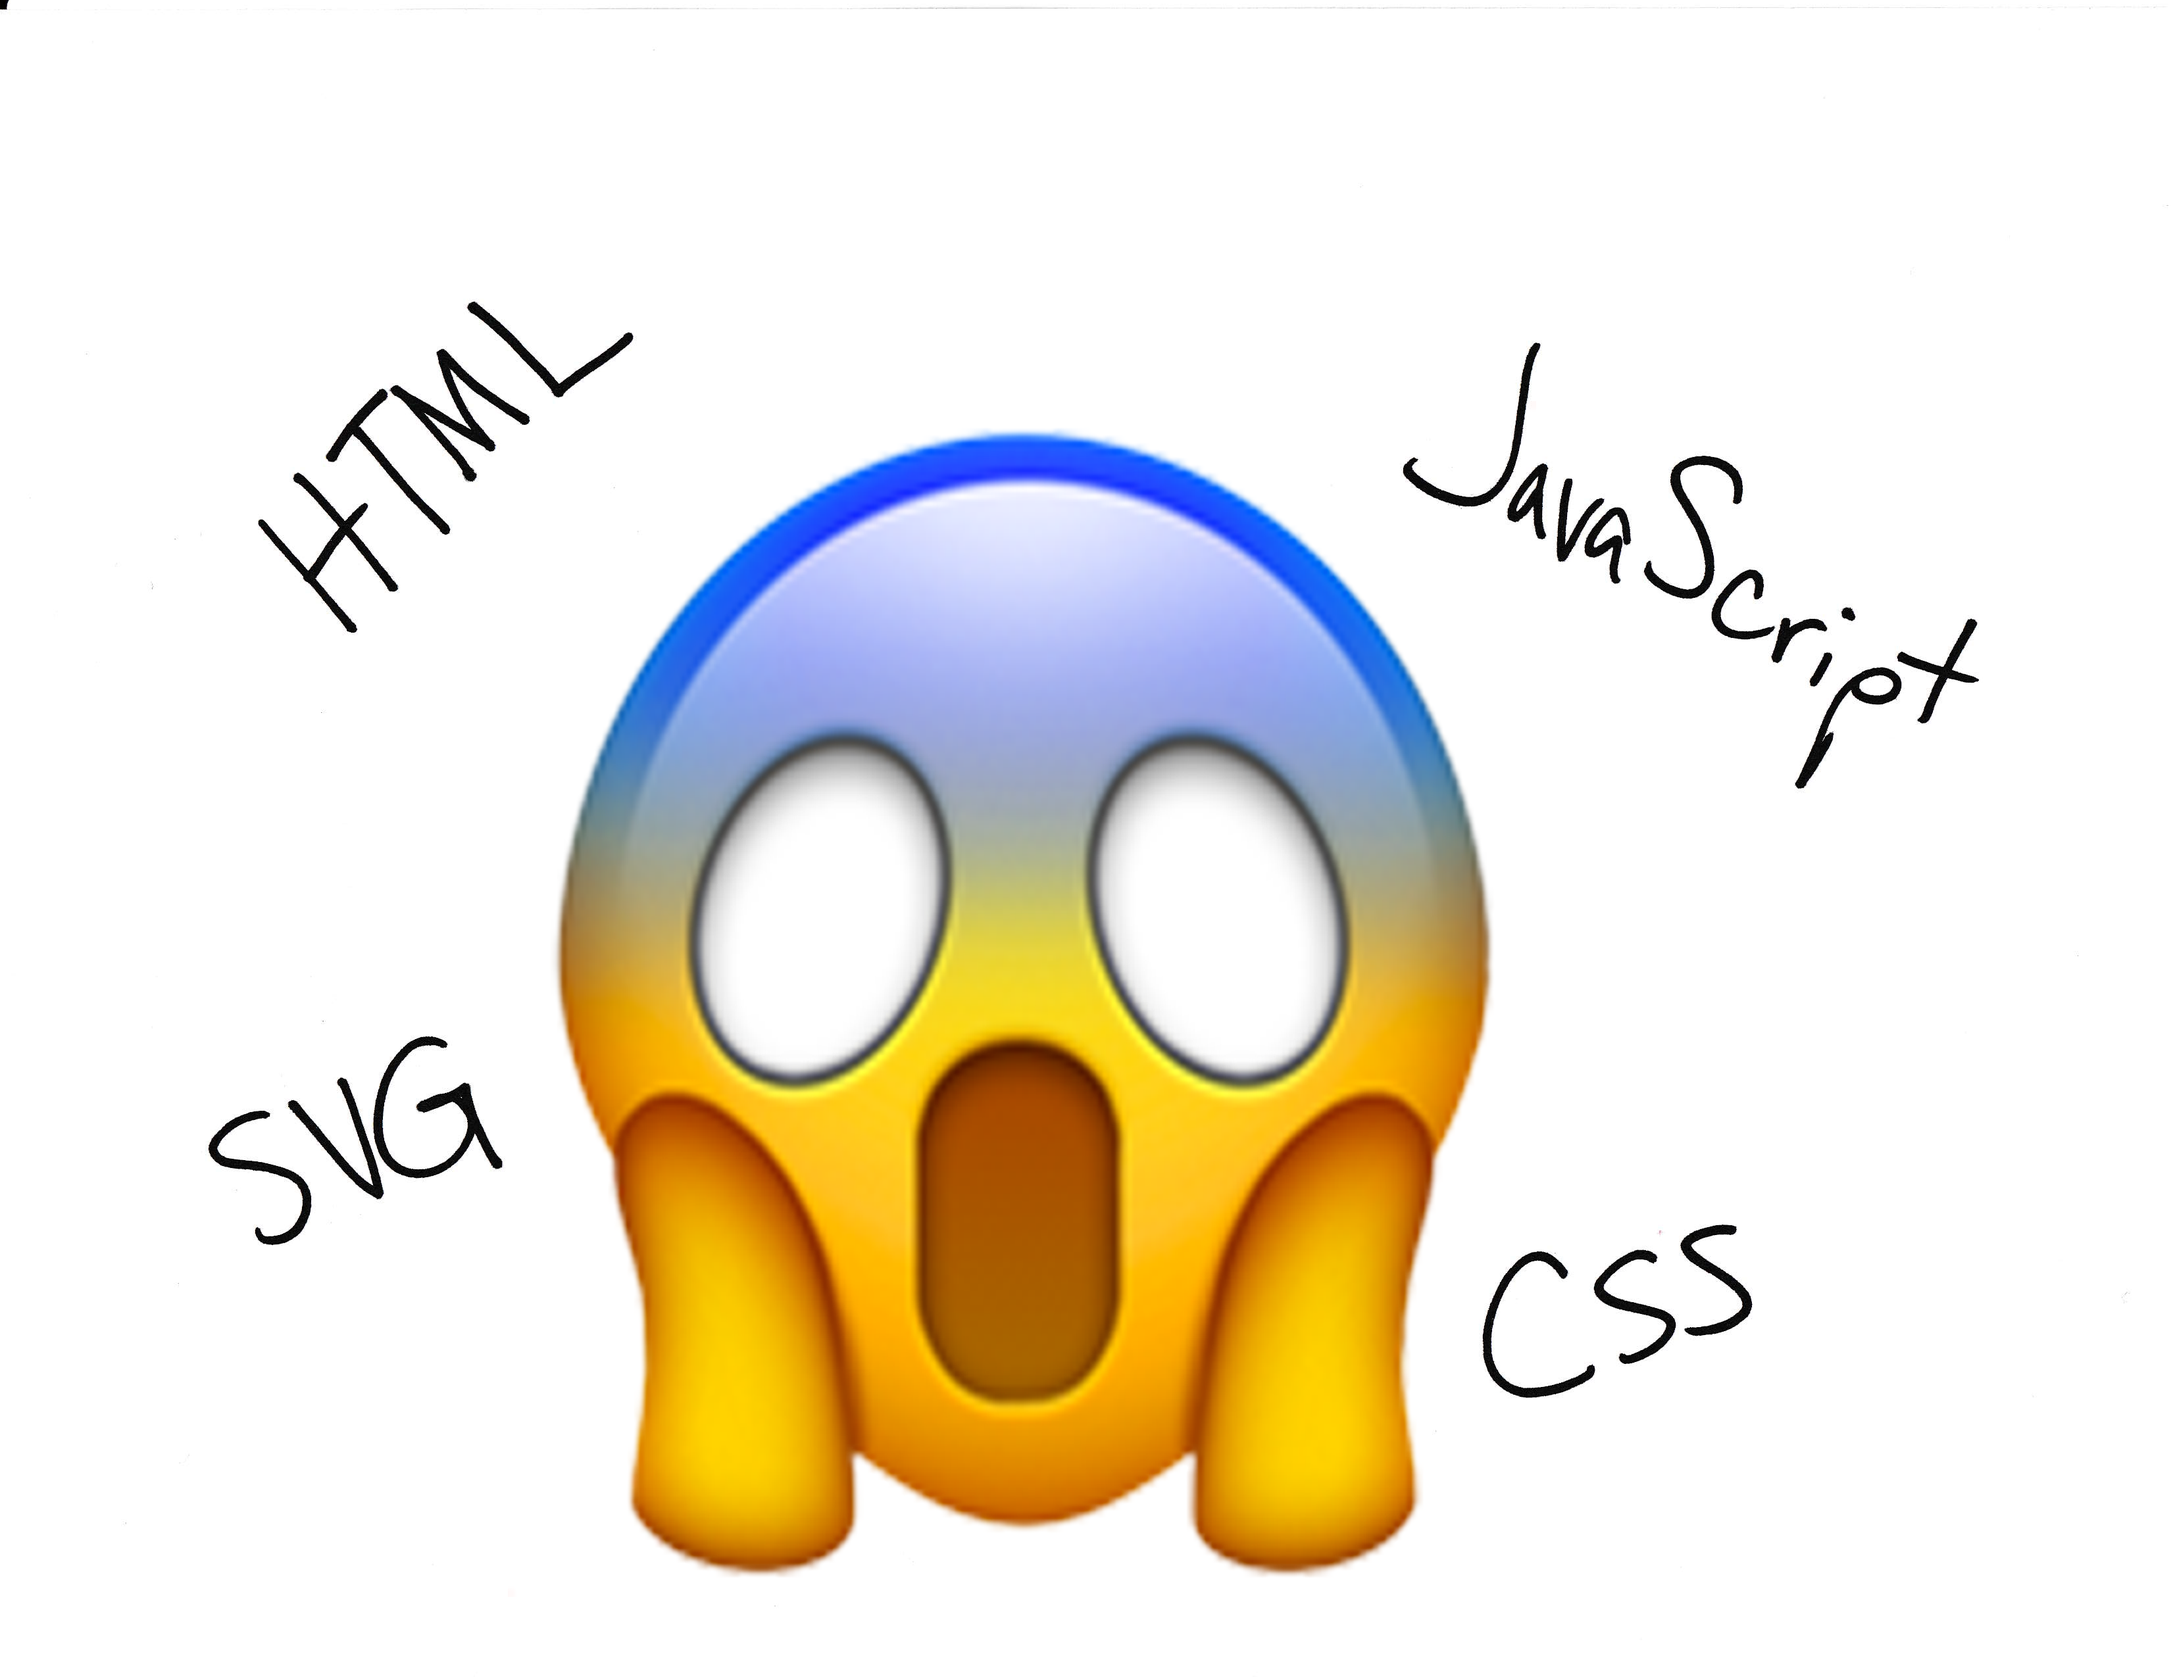
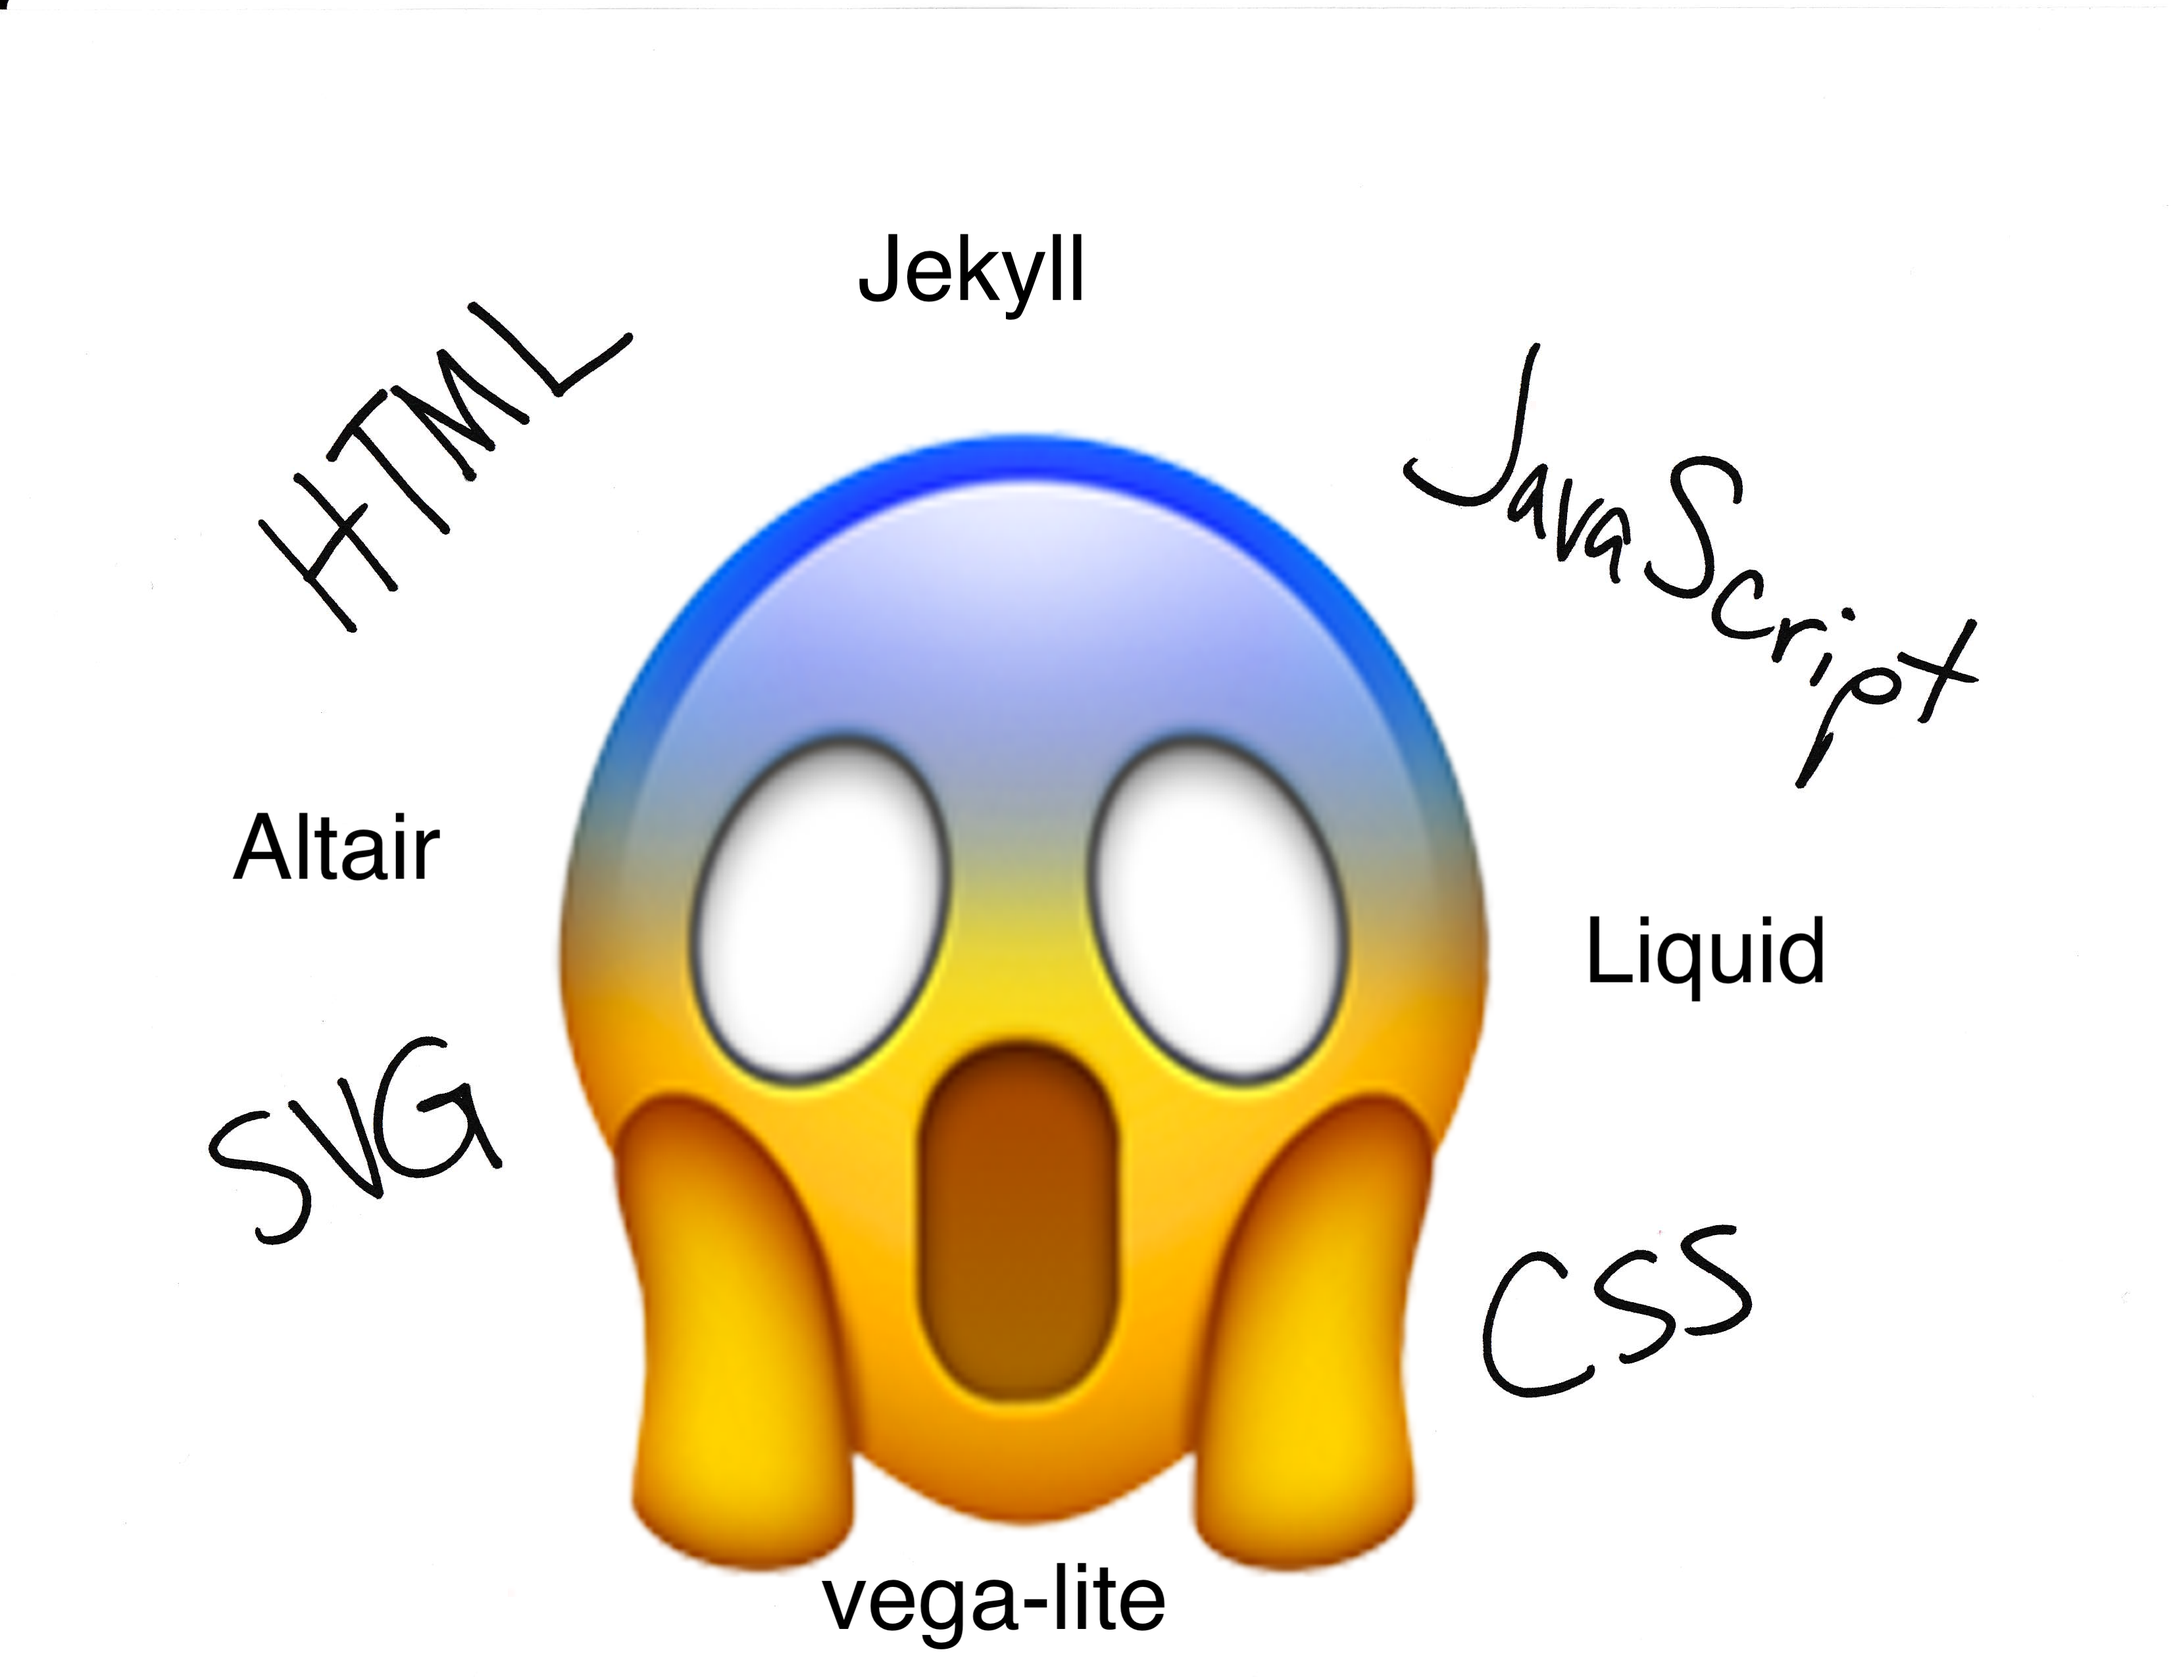
lecture11

diff --git a/_site/week10/lecture11.html b/_site/week10/lecture11.html
@@ -547,14 +547,16 @@ we actually already used a tiny bit of altair to generate a plot in your test ho
 
 ## Summary
 
-<img src="images/words.png" width="700"/>
+<img src="images/words2.png" width="700"/>
 
 notes:
-D3 is meant to be well-integrated into the existing infrastructure of the internet. The worldwide web is a real patchwork of different languages with different syntaxes meant to do different things. Don't let it overwhelm you. They tend to be pretty simple to start, and only get more complicated when you need them to.
+So we just covered a lot of new terms. The worldwide web is a real patchwork of different languages with different syntaxes meant to do different things. Don't let it overwhelm you. They tend to be pretty simple to start, and only get more complicated when you need them to.
+
+and again, we'll be using templates and mostly markdown -- all of this more complex stuff is happening on the "backend"
 
 ---
 
-## D3.js
+## Summary
 
 <img src="images/html.png" width="700"/>
 
@@ -567,58 +569,55 @@ It's essentially a skeleton for other functionality to hang off of.
 
 You may see the term DOM or Document Object Model. This is just another name for this skeleton/framework.
 
+this is what all of our templates will be modifying for us
+
 ---
 
-## D3.js
+## Summary
 
 <img src="images/css.png" width="700"/>
 
 notes:
+you might have heard of something like CSS to modify the styles of HTML pages
+
 CSS or cascading style sheets are how you define how websites are formatted. They do color, indentation, drop shadows, etc. Each CSS call is attached to an HTML tag.
 
 CSS can be called in-line, or from an external file dedicated exclusively to CSS code.
 
----
+again, our templates and yaml options will take care of all of this for us
 
-## D3.js
-
-<img src="images/svg.png" width="700"/>
-
-notes:
-SVG or Scalable Vector Graphics is an XML-based implementation of vector shape drawing that's natively understood by website compilers. It's an easy way to include dynamically rendered, animated, or interactive imagery in a webpage.
 
 ---
 
-## D3.js
+## Summary
 
-<img src="images/javascript.png" width="700"/>
+<img src="images/javascript2.png" width="700"/>
 
 notes:
 JavaScript is a dynamic programming language that runs natively on webpages that we've been using the past few weeks in Starboard. If you want to run programming logic in a webpage, you use javascript. If you see interactivity or animated effects on a website, you can generally expect they were written in javascript. 
 
+now we will just use altair+vega-lite and our Jekyll templete to make this happen "under the hood" for us!
+
 ---
 
-## Idyll
+## Summary
 
-Most of this is hidden from you when writing in Idyll! But it helps to understand the underlying mechanisms.
+Most of this is hidden from you when writing in Jekyll! But it helps to understand the underlying mechanisms.
 
-We'll start with vega-lite in Idyll.
+We'll start with a "pure" Jekyll page.
 
-If we have time, we'll get into D3.js and Idyll (examples are posted).
+Then we'll figure out how to include vega-lite plots, then we'll get into Altair and Jekyll (examples are posted).
 
 You can use any of these tools in the final project!
 
 
 notes:
-what are the limits to data size in Idyll and the web browser?
+what are the limits to data size in vega-lite and the web browser?
 
 ---
 
-## Onto Idyll!
+## Onto Jekyll web pages!
 
-Idyll is a reactive markup language for visualization and narrative documents.
-
-[idyll-lang.org](idyll-lang.org)
 
 
           </script>

diff --git a/week10/lecture11.md b/week10/lecture11.md
@@ -513,14 +513,16 @@ we actually already used a tiny bit of altair to generate a plot in your test ho
 
 ## Summary
 
-<img src="images/words.png" width="700"/>
+<img src="images/words2.png" width="700"/>
 
 notes:
-D3 is meant to be well-integrated into the existing infrastructure of the internet. The worldwide web is a real patchwork of different languages with different syntaxes meant to do different things. Don't let it overwhelm you. They tend to be pretty simple to start, and only get more complicated when you need them to.
+So we just covered a lot of new terms. The worldwide web is a real patchwork of different languages with different syntaxes meant to do different things. Don't let it overwhelm you. They tend to be pretty simple to start, and only get more complicated when you need them to.
+
+and again, we'll be using templates and mostly markdown -- all of this more complex stuff is happening on the "backend"
 
 ---
 
-## D3.js
+## Summary
 
 <img src="images/html.png" width="700"/>
 
@@ -533,56 +535,53 @@ It's essentially a skeleton for other functionality to hang off of.
 
 You may see the term DOM or Document Object Model. This is just another name for this skeleton/framework.
 
+this is what all of our templates will be modifying for us
+
 ---
 
-## D3.js
+## Summary
 
 <img src="images/css.png" width="700"/>
 
 notes:
+you might have heard of something like CSS to modify the styles of HTML pages
+
 CSS or cascading style sheets are how you define how websites are formatted. They do color, indentation, drop shadows, etc. Each CSS call is attached to an HTML tag.
 
 CSS can be called in-line, or from an external file dedicated exclusively to CSS code.
 
----
+again, our templates and yaml options will take care of all of this for us
 
-## D3.js
-
-<img src="images/svg.png" width="700"/>
-
-notes:
-SVG or Scalable Vector Graphics is an XML-based implementation of vector shape drawing that's natively understood by website compilers. It's an easy way to include dynamically rendered, animated, or interactive imagery in a webpage.
 
 ---
 
-## D3.js
+## Summary
 
-<img src="images/javascript.png" width="700"/>
+<img src="images/javascript2.png" width="700"/>
 
 notes:
 JavaScript is a dynamic programming language that runs natively on webpages that we've been using the past few weeks in Starboard. If you want to run programming logic in a webpage, you use javascript. If you see interactivity or animated effects on a website, you can generally expect they were written in javascript. 
 
+now we will just use altair+vega-lite and our Jekyll templete to make this happen "under the hood" for us!
+
 ---
 
-## Idyll
+## Summary
 
-Most of this is hidden from you when writing in Idyll! But it helps to understand the underlying mechanisms.
+Most of this is hidden from you when writing in Jekyll! But it helps to understand the underlying mechanisms.
 
-We'll start with vega-lite in Idyll.
+We'll start with a "pure" Jekyll page.
 
-If we have time, we'll get into D3.js and Idyll (examples are posted).
+Then we'll figure out how to include vega-lite plots, then we'll get into Altair and Jekyll (examples are posted).
 
 You can use any of these tools in the final project!
 
 
 notes:
-what are the limits to data size in Idyll and the web browser?
+what are the limits to data size in vega-lite and the web browser?
 
 ---
 
-## Onto Idyll!
+## Onto Jekyll web pages!
 
-Idyll is a reactive markup language for visualization and narrative documents.
-
-[idyll-lang.org](idyll-lang.org)
 
